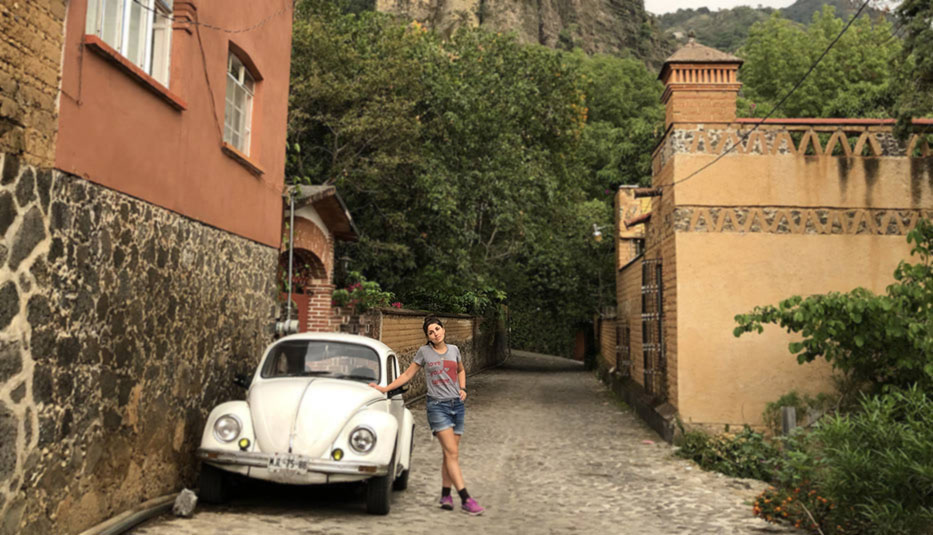
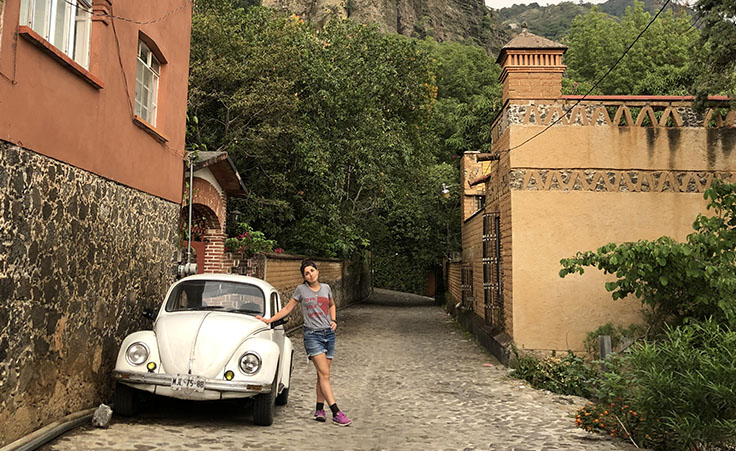
responsive tweaking

diff --git a/index.html b/index.html
@@ -97,6 +97,7 @@
     	#overview {
     		background: -webkit-image-set( url('IMG/watercolor-bg-320w.jpg') 1x, url('IMG/watercolor-bg-640w.jpg') 2x );
     		background-size: cover;
+            background-position: bottom;
     	}
 
     	#overview .lead {
@@ -154,11 +155,14 @@
     			}
     		}
 
+            @media screen and (min-width: 992px) {
+            }
+
 
     		@media screen and (max-width : 992px)   {
     			#overview .lead  {
     				font-size: 2rem;
-    				margin-top:80px;
+    				margin-top: 80px;
     			}
 
     			.jumbotron {height: 500px;}
@@ -173,23 +177,38 @@
 
 			@media screen and (max-width : 992px) and (min-width: 768px)  {
 
-			.offerings-copy p{
-    				font-size: 1rem;
-    			}
+    			.offerings-copy p{
+        				font-size: 1rem;
+        			}
 			}
 
-			@media screen and (min-width : 577px)   {
-
-				#offeringsTitle {
-    				margin:60px 0 20px 0;
-    			}
+			@media screen and (min-width : 577px) and (max-width: 992px) {
 
     		}
 
+            @media screen and (min-width : 577px) {
+
+                #offeringsTitle {
+                    margin: 60px 0 20px 0;
+                }
+
+                #approach {
+                    background: url('IMG/elena-beetle-1000w.jpg');
+                    background-size: cover;
+                    background-attachment: fixed;
+                    background-position: center top;
+                }
+
+                .offerings-copy {
+                    padding-top: 65px;
+                }
+            }
+
 			@media screen and (max-width : 576px)   {
     			#overview .lead  {
-    				font-size: 1.4rem;
-    				margin-top: 65px;
+    				font-size: 1.6rem;
+                    margin-top: 15%;
+                    padding-top: 50px;
     			}
 
     			#approach {
@@ -261,7 +280,7 @@
 <!-- <img class="d-block d-sm-none" src="IMG/elena-beetle2-320w.jpg" width="100%" alt="Elena Pinsky landscape shot"/> -->
 
 <div class="block">
-  <img src="IMG/elena-beetle2-320w.jpg" data-speed="1" class="img-parallax d-block d-sm-none" alt="Elena Pinsky landscape shot">
+  <img src="IMG/elena-beetle-320w.jpg" data-speed="1" class="img-parallax d-block d-sm-none" alt="Elena Pinsky landscape shot">
   <div class="d-block d-sm-none" style="height: 300px"></div>
 </div>
 
